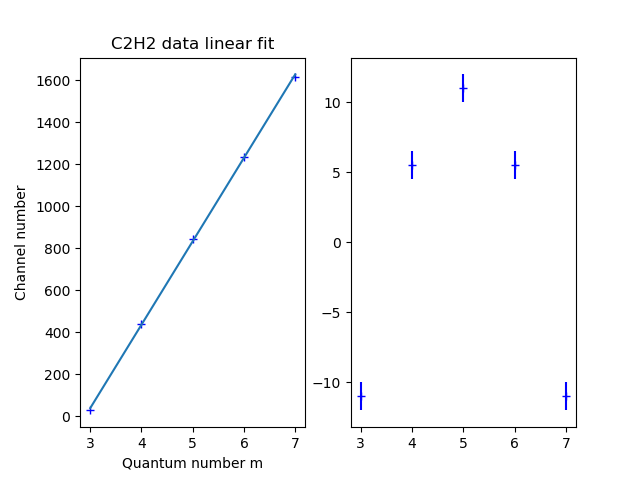
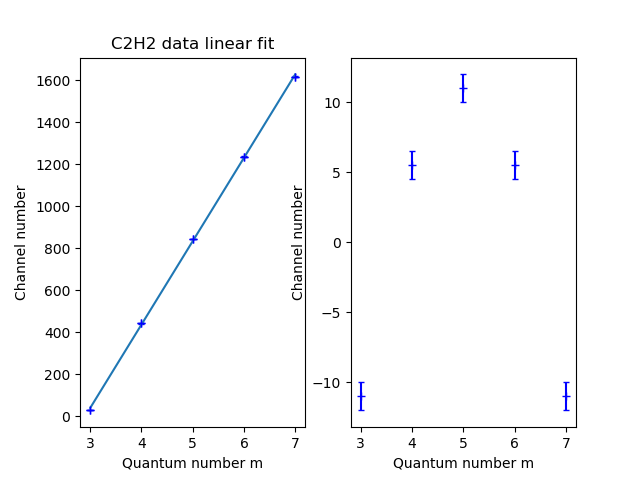
changes to plotting and adding axes

diff --git a/main.py b/main.py
@@ -14,6 +14,7 @@ import random
 plt.rcParams.update({'font.size': 14})
 plt.style.use('default')
 figure = plt.figure()
+plt.rcParams.update({'errorbar.capsize': 2})
 
 # constants
 c = 299792458  # speed of light in ms^-1
@@ -43,6 +44,7 @@ def plotData(title, xAxisTitle, yAxisTitle, x, y, error_y, label):
     figure = plt.figure()
     axes_1 = figure.add_subplot(121)
     axes_1.plot(x, y, "b+", label=label)
+    axes_1.errorbar(x, y, error_y, fmt="b+")
     plt.xlabel(xAxisTitle)  #
     plt.ylabel(yAxisTitle)  # edit from axes
     plt.title(title)
@@ -53,6 +55,8 @@ def plotData(title, xAxisTitle, yAxisTitle, x, y, error_y, label):
     y_fitted = np.polyval(fit_parameters, x)
     axes_1.plot(x, y_fitted)
     axes_2 = figure.add_subplot(122)
+    axes_2.set_xlabel(xAxisTitle)
+    axes_2.set_ylabel(yAxisTitle)
     axes_2.errorbar(x, y - y_fitted, yerr=y_errors, fmt='b+')
 
     plt.savefig(title + ".png")
@@ -62,8 +66,9 @@ def plotQuadraticFitData(title, xAxisTitle, yAxisTitle, x, y, error_y, label):
     figure = plt.figure()
     axes_1 = figure.add_subplot(121)
     axes_1.plot(x, y, "b+", label=label)
-    plt.xlabel(xAxisTitle)  #
+    axes_1.errorbar(x, y, error_y)
     plt.ylabel(yAxisTitle)  # edit from axes
+    plt.xlabel(xAxisTitle)
     plt.title(title)
     y_weights = (1 / error_y) * np.ones(np.size(y))
     y_errors = error_y * np.ones(np.size(y))
@@ -71,6 +76,8 @@ def plotQuadraticFitData(title, xAxisTitle, yAxisTitle, x, y, error_y, label):
     y_fitted = np.polyval(fit_parameters, x)
     axes_2 = figure.add_subplot(122)
     axes_1.plot(x, y_fitted)
+    axes_2.set_xlabel(xAxisTitle)
+    axes_2.set_ylabel(yAxisTitle)
     axes_2.errorbar(x, y - y_fitted, yerr=y_errors, fmt='b+')
 
     plt.savefig(title + ".png")
@@ -295,7 +302,7 @@ def main():
                          "C2H2")
 
     error_arr = np.delete(error_arr, 0)
-    plotData("Water data", "Channel Number", "Voltage", wave_number_water, water_zeroes, error_arr, "H2O")
+    plotData("Water data", "Wave number", "Channel number", wave_number_water, water_zeroes, error_arr, "H2O")
 
     # finish the lines by adding or removing different stuff
     # make sure the graphs are consistent
